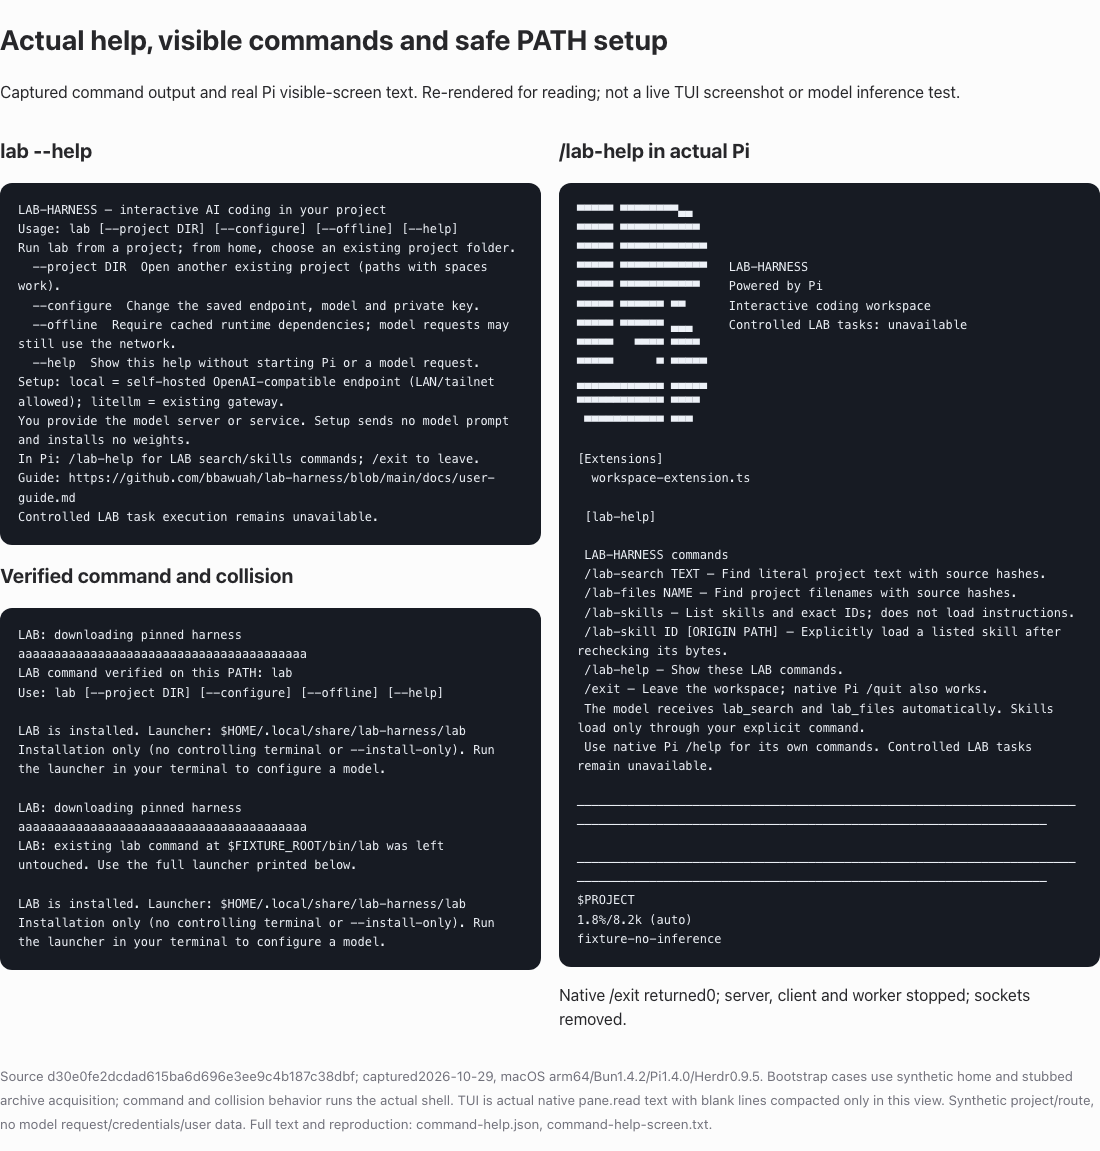
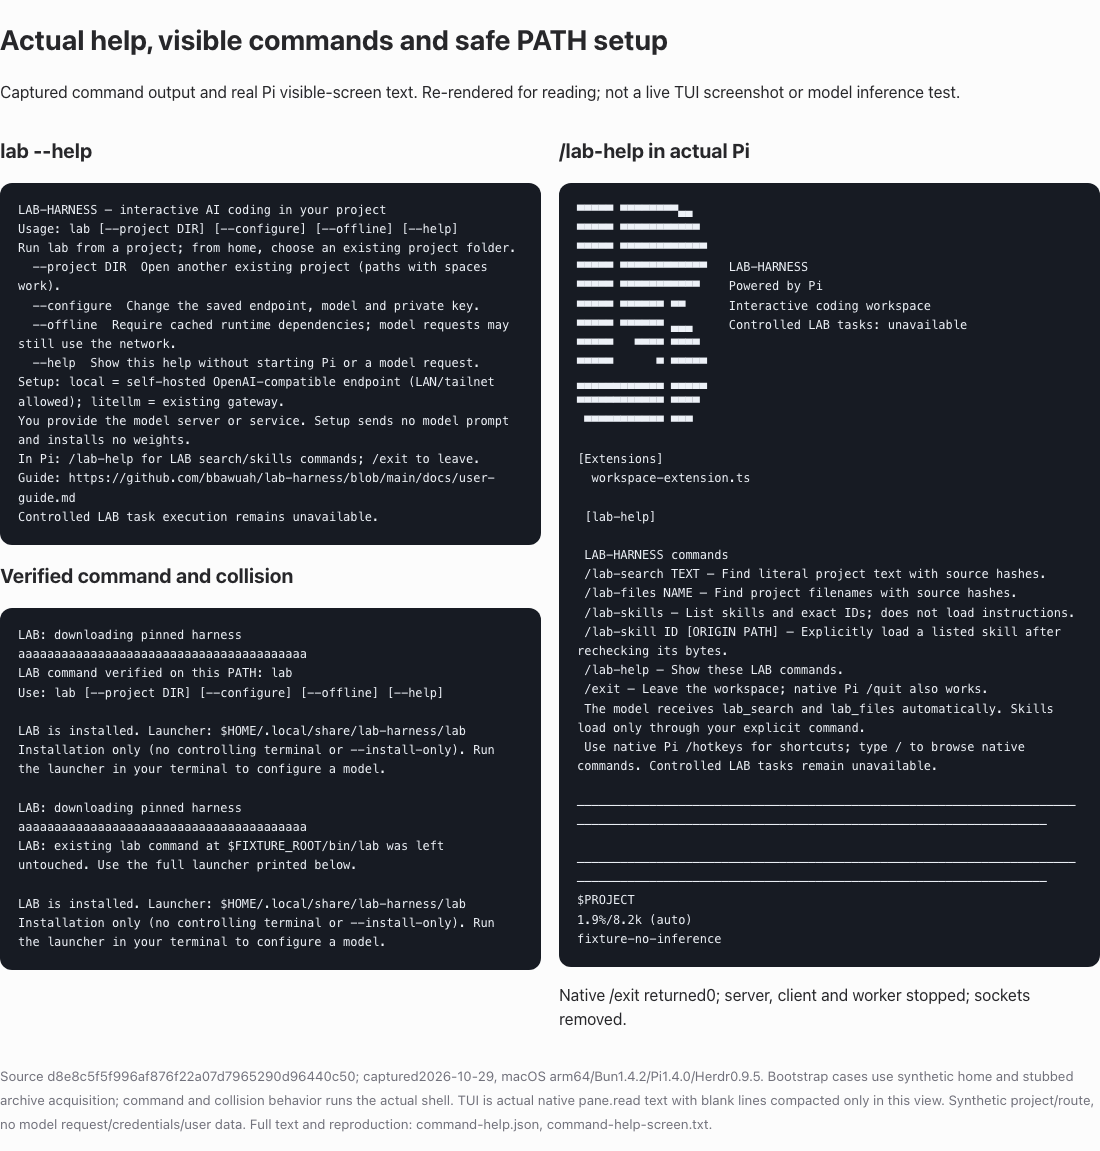
docs: refresh actual help capture after shortcut guidance correction

diff --git a/docs/evidence/command-help.html b/docs/evidence/command-help.html
@@ -47,10 +47,10 @@ Installation only (no controlling terminal or --install-only). Run the launcher 
  /lab-help — Show these LAB commands.
  /exit — Leave the workspace; native Pi /quit also works.
  The model receives lab_search and lab_files automatically. Skills load only through your explicit command.
- Use native Pi /help for its own commands. Controlled LAB tasks remain unavailable.
+ Use native Pi /hotkeys for shortcuts; type / to browse native commands. Controlled LAB tasks remain unavailable.
 
 ──────────────────────────────────────────────────────────────────────────────────────────────────────────────────────────────────────
 
 ──────────────────────────────────────────────────────────────────────────────────────────────────────────────────────────────────────
 $PROJECT
-1.8%/8.2k (auto)                                                                                                  fixture-no-inference</pre><p>Native /exit returned0; server, client and worker stopped; sockets removed.</p></section></div><p><small>Source d30e0fe2dcdad615ba6d696e3ee9c4b187c38dbf; captured2026-10-29, macOS arm64/Bun1.4.2/Pi1.4.0/Herdr0.9.5. Bootstrap cases use synthetic home and stubbed archive acquisition; command and collision behavior runs the actual shell. TUI is actual native pane.read text with blank lines compacted only in this view. Synthetic project/route, no model request/credentials/user data. Full text and reproduction: command-help.json, command-help-screen.txt.</small></p></html>
+1.9%/8.2k (auto)                                                                                                  fixture-no-inference</pre><p>Native /exit returned0; server, client and worker stopped; sockets removed.</p></section></div><p><small>Source d8e8c5f5f996af876f22a07d7965290d96440c50; captured2026-10-29, macOS arm64/Bun1.4.2/Pi1.4.0/Herdr0.9.5. Bootstrap cases use synthetic home and stubbed archive acquisition; command and collision behavior runs the actual shell. TUI is actual native pane.read text with blank lines compacted only in this view. Synthetic project/route, no model request/credentials/user data. Full text and reproduction: command-help.json, command-help-screen.txt.</small></p></html>
